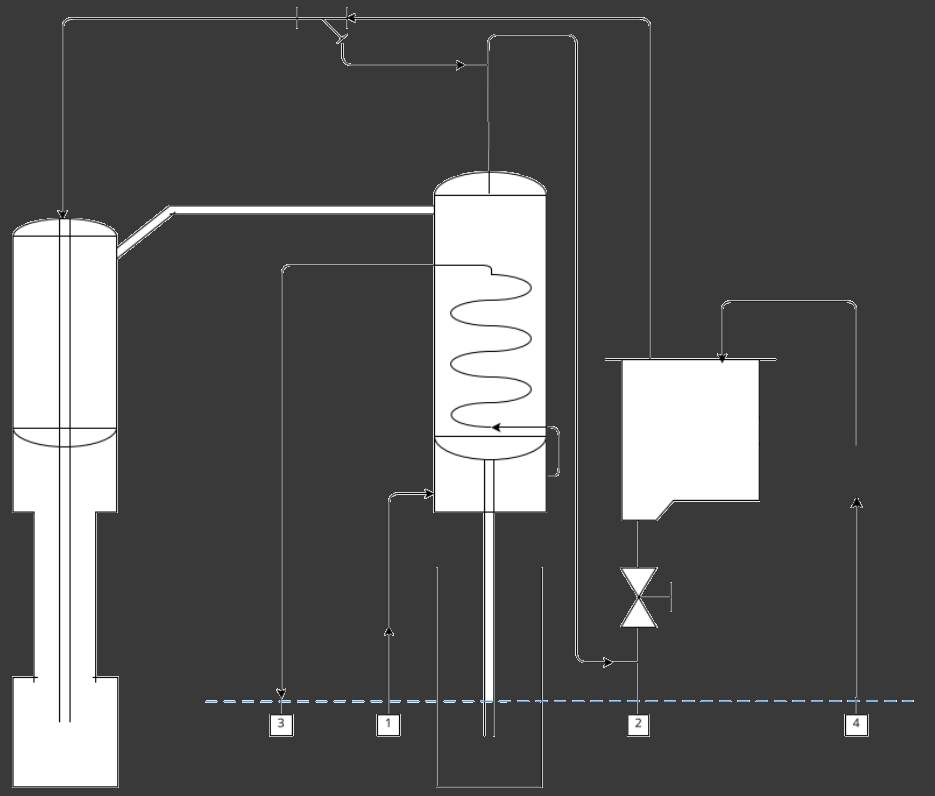
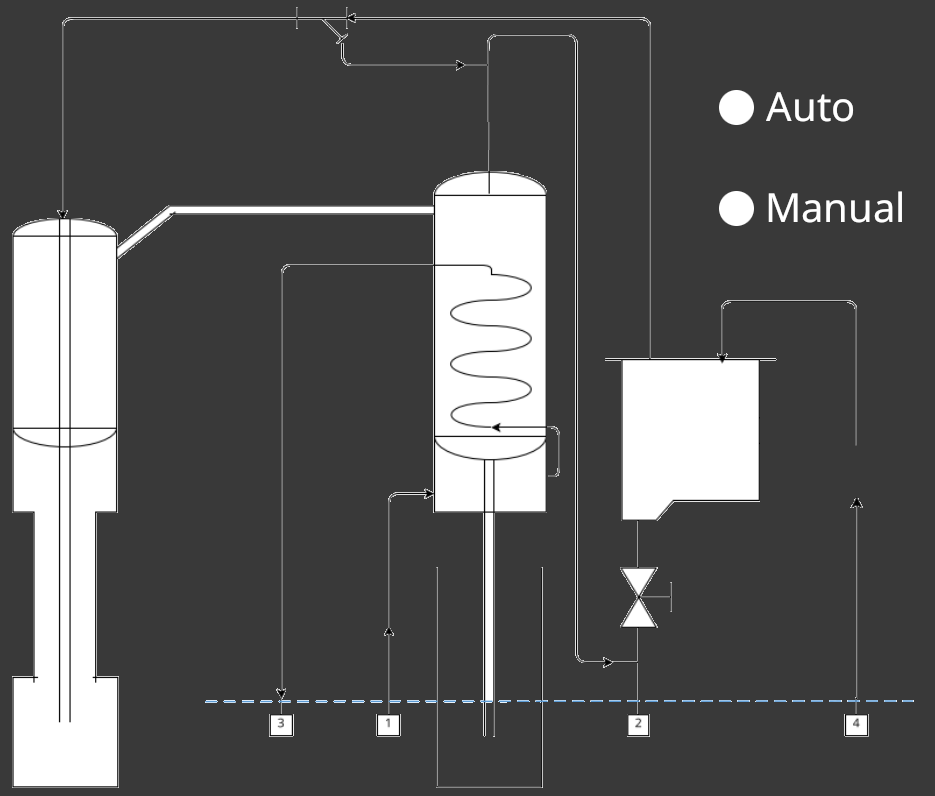
auto/manual added to web_image

Changed region(s): [[0.7444, 0.2412, 0.9925, 0.3015], [0.7444, 0.0905, 0.9305, 0.1809]]

diff --git a/data/script_timers_Img.js b/data/script_timers_Img.js
@@ -42,11 +42,26 @@ window.addEventListener('load', (event) => {
         if (document.getElementById("waterMax").innerHTML == "1") {
             document.getElementById("tank").src = "sMax.png";
         }
+
         if (document.getElementById("waterMin").innerHTML == "1") {
             document.getElementById("tank").src = "sMin.png";
         }
+
         if (document.getElementById("waterAlarm").innerHTML == "1" && document.getElementById("waterMin").innerHTML == "1") {
             document.getElementById("tank").src = "sAlarm.png";
         }
+
+        if (document.getElementById("autoMode").innerHTML == "1") {
+            document.getElementById("button_Auto").src = "button_ON.png";
+        } else {
+            document.getElementById("button_Auto").src = "button_OFF.png";
+        }
+
+        if (document.getElementById("manualMode").innerHTML == "1") {
+            document.getElementById("button_Man").src = "button_ON.png";
+        } else {
+            document.getElementById("button_Man").src = "button_OFF.png";
+        }
+
     }, 1423);
 });

diff --git a/data/index.html b/data/index.html
@@ -30,6 +30,8 @@
         <img id="valve2_img" alt="valve_ON_img" src="Valve_OFF.png" onclick="toggleDumpWater()" class="valve2_off">
         <img id="tank" alt="Tank" src="sMax.png" class="tank">
         <img id="RAQ_img" alt="RAQ_ON_img" src="RAQ_ON.png" onclick="toggleResistor()" class="raq">
+        <img id="button_Man" alt="button_Man_img" src="button_OFF.png" class="button_Man">
+        <img id="button_Auto" alt="button_Auto_img" src="button_OFF.png" onclick="toggleAutoMode()" class="button_Auto">
 
         <div id="card" class="card">
             <table style="width:100%">

diff --git a/data/style_Img.css b/data/style_Img.css
@@ -1,6 +1,6 @@
 .card {
     float: right;
-    margin-left: 10px;
+    margin-left: 20px;
 }
 
 .Destiller_img{
@@ -69,5 +69,22 @@
     text-align: center;
     top: 440px;
     left: 605px;
+    transform: translate(0%, -50%);
+}
+
+.button_Auto {
+    position: absolute;
+    text-align: center;
+    top: 108px;
+    left: 719px;
+    transform: translate(0%, -50%);
+    cursor:grab;
+}
+
+.button_Man {
+    position: absolute;
+    text-align: center;
+    top: 209px;
+    left: 719px;
     transform: translate(0%, -50%);
 }

diff --git a/src/AP_Web.cpp b/src/AP_Web.cpp
@@ -443,6 +443,12 @@ void setupCalls()
   server.on("/sAlarm.png", HTTP_GET, [](AsyncWebServerRequest *request)
             { request->send(SPIFFS, "/img/sAlarm.png", "image/png"); });
 
+  server.on("/button_ON.png", HTTP_GET, [](AsyncWebServerRequest *request)
+            { request->send(SPIFFS, "/img/button_ON.png", "image/png"); });
+
+  server.on("/button_OFF.png", HTTP_GET, [](AsyncWebServerRequest *request)
+            { request->send(SPIFFS, "/img/button_OFF.png", "image/png"); });
+
   //////////////////////////////////////////////////////////////
   // Route for sensors Handlers
   //////////////////////////////////////////////////////////////
